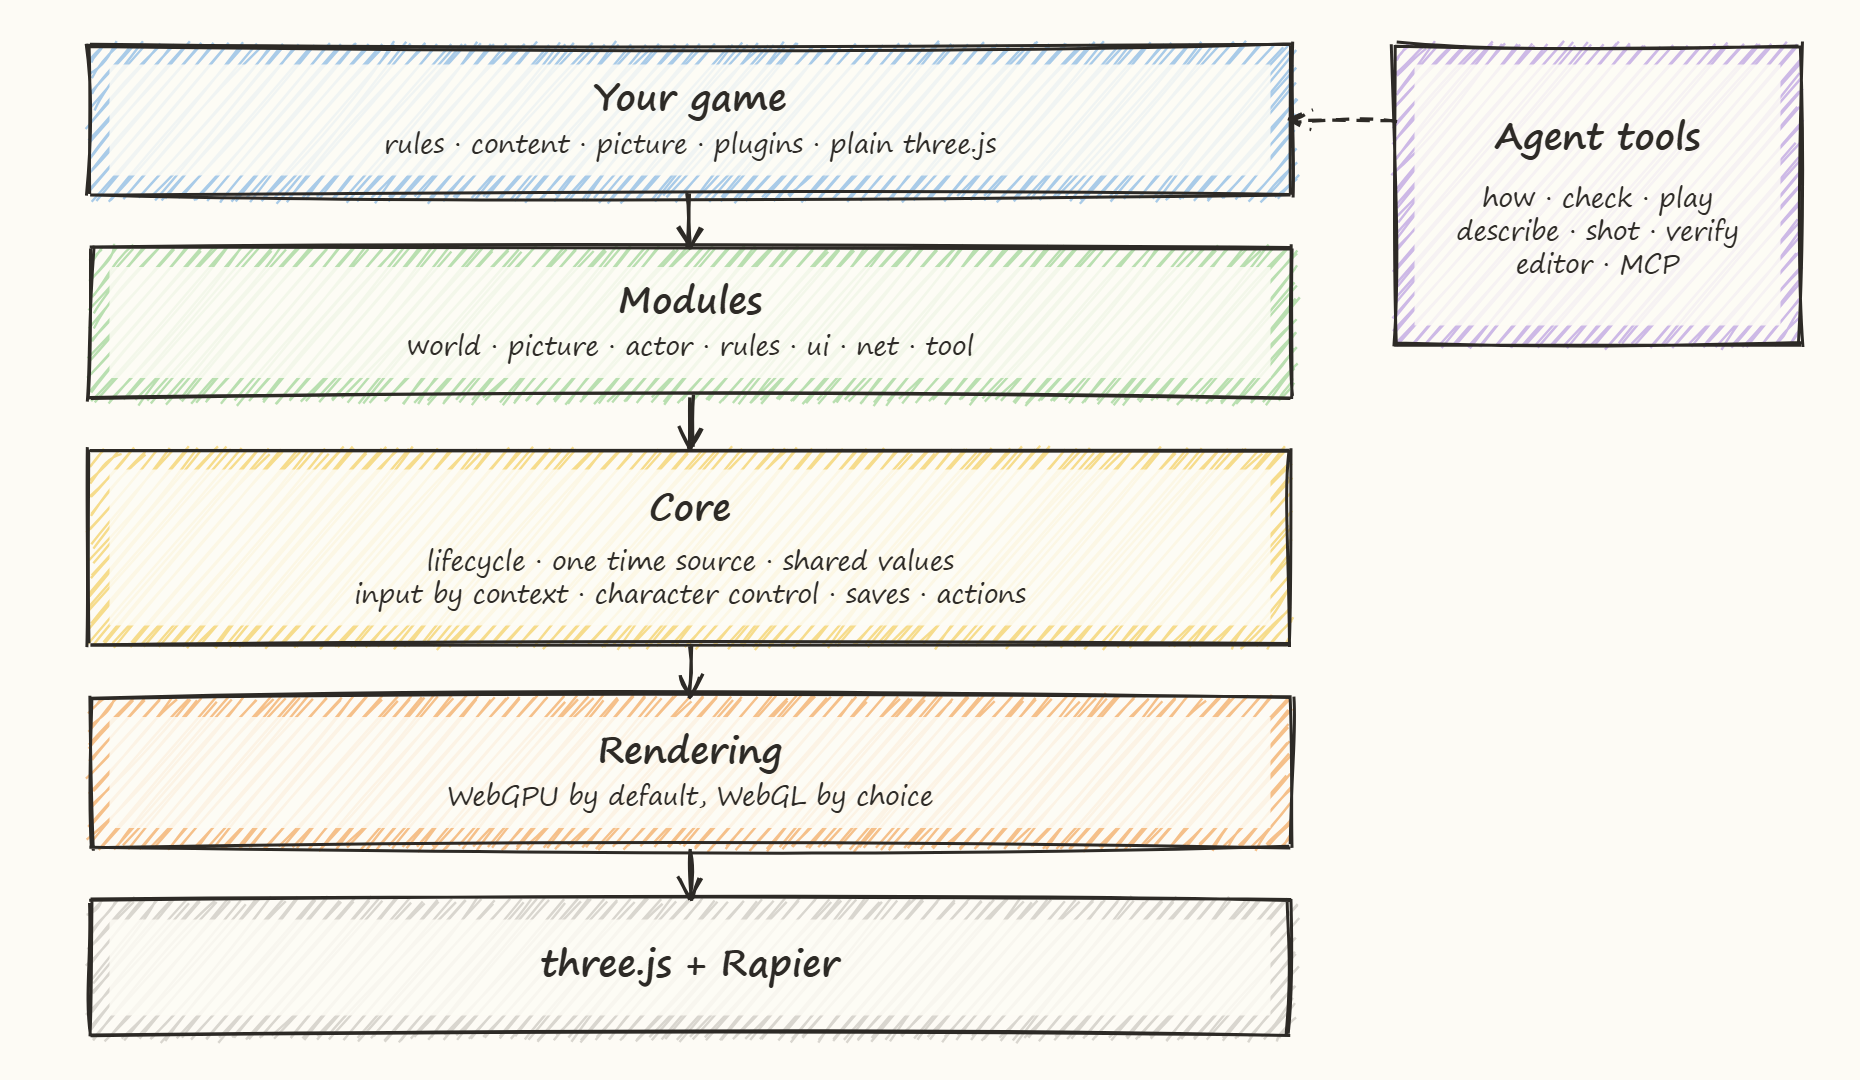
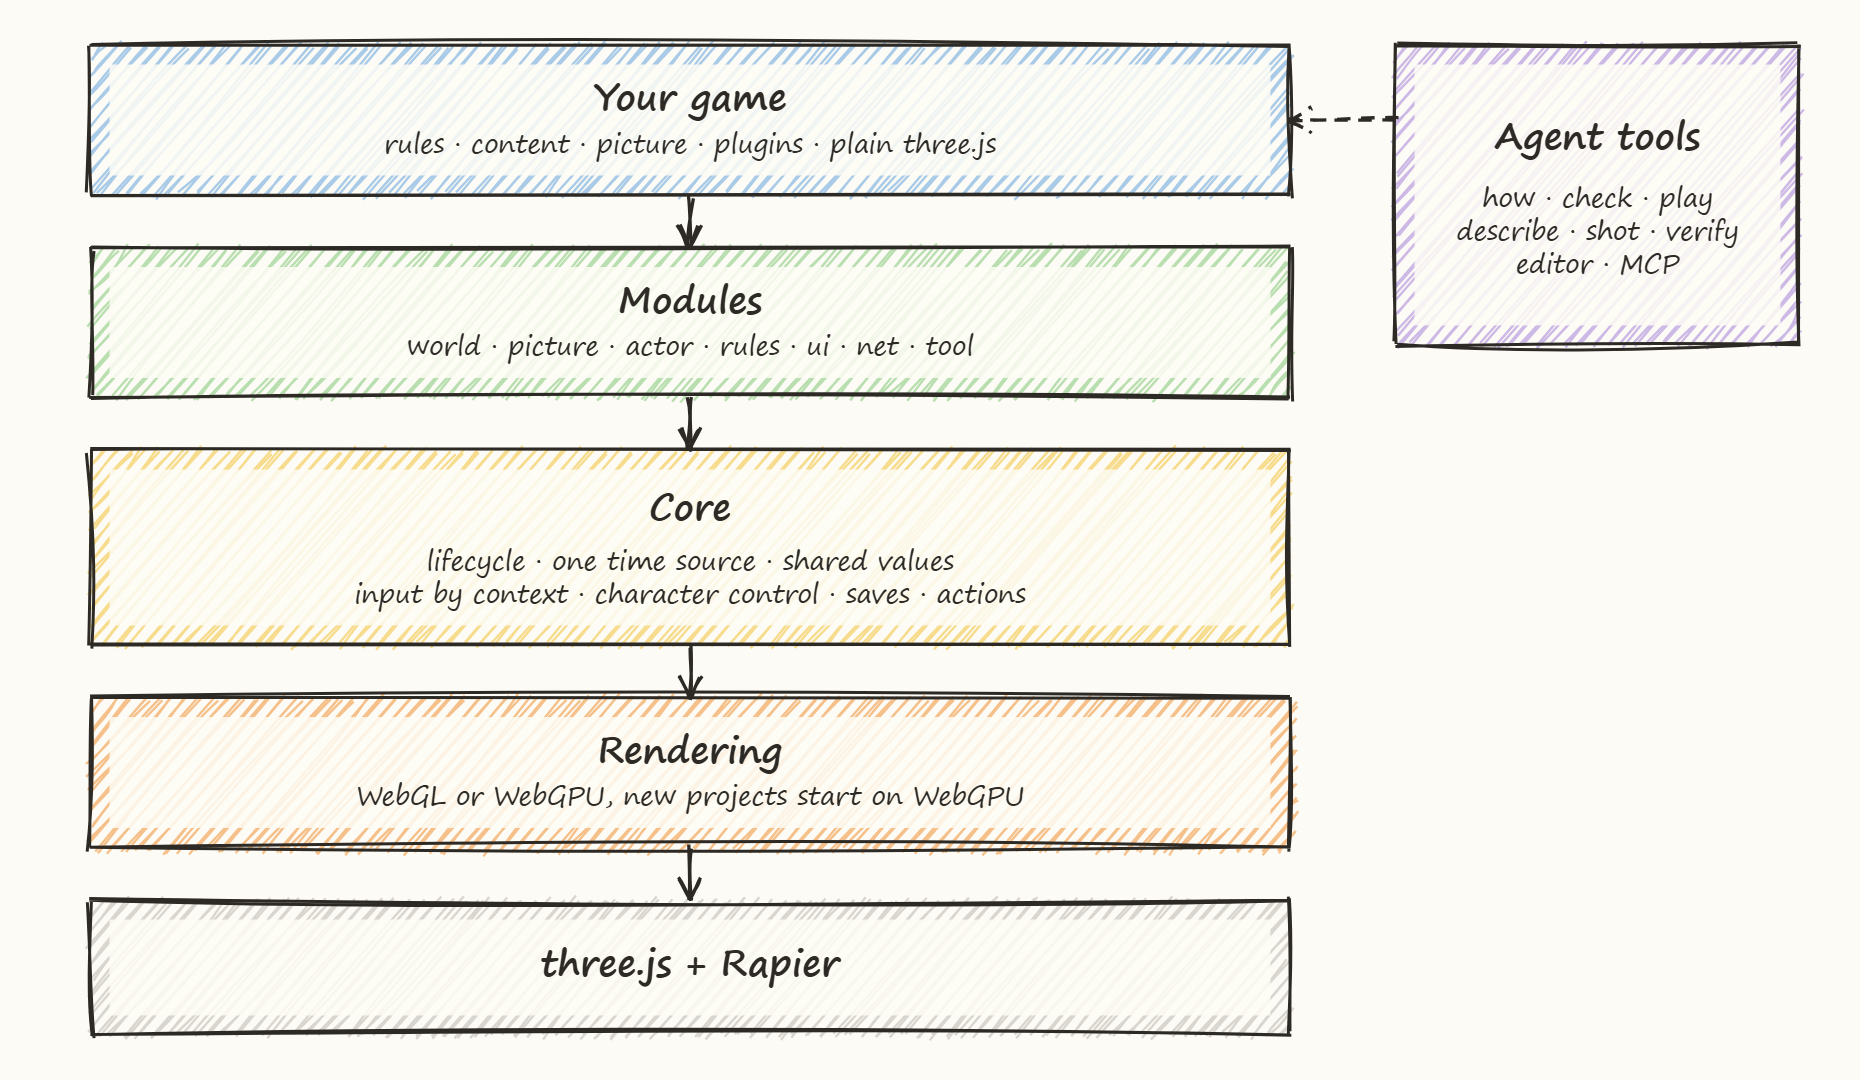
README: the diagrams are back; the architecture one says how rendering really starts

diff --git a/README.md b/README.md
@@ -152,6 +152,8 @@ The scene, geometry, lights and materials are three.js objects. `onFrame` update
 
 **An AI can find, use and check what exists.** The engine offers docs searched by task, a capability catalog, a command line, MCP and runtime checks. Ease of use also means an AI can tell whether a module is ready, why an action failed, which system controls an object, and whether a change took effect.
 
+<p align="center"><img src="docs/brand/diagrams/design.png" alt="The loop: the AI writes three.js, the engine plugs it in and coordinates it, the AI checks the result, then the next change" width="760"></p>
+
 **three.js keeps its full expression.** A project can make its own materials, lights, geometry and shaders, and it can plug in its own render pass. [THREE.md](packages/engine/docs/THREE.md) covers cameras, resource release, shared state and render backends.
 
 **No fixed look or gameplay.** The gray placeholder is only a start. Cartoon, realistic, pixel and procedural looks are the project's choice. Follow cameras, inventories, quests and open worlds are all optional, and a world can be a height field, a hand-built mesh or an imported level.
@@ -180,6 +182,8 @@ Time, input, assets, saves, module lifecycle, rendering and diagnostics
           ▼
 three.js / Rapier / Recast and other base libraries
 
+<p align="center"><img src="docs/brand/diagrams/arch.png" alt="Layers: your game, modules, core, rendering, three.js and Rapier, with the agent tools beside them" width="760"></p>
+
 Dev tools: connect to the running project, run actions, read state, check results
 ```
 
@@ -200,6 +204,8 @@ Maintainers can read [the current architecture](docs/architecture.md). Project a
 ## How gameplay and picture work together
 
 Gameplay code decides what happens, and picture code shows it in three.js. Rain is one example. The weather system records the current weather, the picture reads it to decide clouds, raindrops and wet ground, audio reads it to play rain, and gameplay can use it to change friction or crop growth. The same rain state can be drawn as a realistic curtain, cartoon lines or pixel particles.
+
+<p align="center"><img src="docs/brand/diagrams/picture.png" alt="Game systems send signals to the picture folder, which is plain three.js; big pieces hand out materials and checks read the result" width="760"></p>
 
 ```text
 Weather state
@@ -223,6 +229,8 @@ Terrain, vegetation and weather keep data apart from drawing. A project can keep
 ## Modules
 
 `modules/` holds 30 module folders, and one folder may have several public factories. Input, saves, assets and basic audio live in the core, so they are not in this table.
+
+<p align="center"><img src="docs/brand/diagrams/module.png" alt="A module has one type, slots and install; ctx ties it to the engine, and what it made leaves with it" width="760"></p>
 
 | Module | Purpose | Source |
 |---|---|---|

diff --git a/README.zh-CN.md b/README.zh-CN.md
@@ -152,6 +152,8 @@ await engine.start();
 
 **AI 能找到、使用和检查能力。** 引擎提供按任务查询的文档、能力目录、命令行、MCP 和运行检查。好不好用也看 AI 能不能知道模块是否就绪、操作为什么失败、哪个系统在控制一个对象，以及改动有没有生效。
 
+<p align="center"><img src="docs/brand/diagrams/design.zh.png" alt="循环：AI 写 three.js，引擎接入并协调，AI 检查结果，再做下一次修改" width="760"></p>
+
 **保留 three.js 的表达能力。** 项目可以创建自己的材质、灯光、几何体和着色器，也可以接入自己的渲染过程。[THREE.md](packages/engine/docs/THREE.md) 写了相机、资源释放、共享状态和渲染后端怎么接。
 
 **不绑定画风和玩法。** 灰色占位画面只是起点，卡通、写实、像素和程序化视觉都由项目选。跟随相机、背包、任务和开放世界都是可选的，世界可以用地形高度场、自建网格或导入的关卡。
@@ -180,6 +182,8 @@ await engine.start();
           ▼
 three.js / Rapier / Recast 等基础库
 
+<p align="center"><img src="docs/brand/diagrams/arch.zh.png" alt="分层：你的游戏、模块、核心、渲染、three.js 和 Rapier，旁边是给 AI 的工具" width="760"></p>
+
 开发工具：连上运行中的项目，执行操作、读取状态、检查结果
 ```
 
@@ -200,6 +204,8 @@ three.js / Rapier / Recast 等基础库
 ## 玩法和画面怎样协作
 
 玩法代码决定发生什么，画面代码用 three.js 表现这些变化。下雨就是一个例子：天气系统记录当前天气，画面读它来决定云、雨滴和地面湿润，音频读它来播雨声，玩法可以据此调整摩擦或作物生长。同一个下雨状态可以画成写实雨幕、卡通线条或像素粒子。
+
+<p align="center"><img src="docs/brand/diagrams/picture.zh.png" alt="游戏系统把信号交给 picture 文件夹里的原生 three.js，大件提供材质，检查工具读取结果" width="760"></p>
 
 ```text
 天气状态
@@ -223,6 +229,8 @@ engine.onRender(() => {
 ## 模块总览
 
 `modules/` 下有 30 个模块目录，一个目录可能有多个公开工厂。输入、存档、资源和基础音频在核心里，不在这张表中。
+
+<p align="center"><img src="docs/brand/diagrams/module.zh.png" alt="一个模块有类型、插槽和 install，ctx 把它接到引擎上，它做的东西随它离开" width="760"></p>
 
 | 模块 | 用途 | 源码 |
 |---|---|---|
